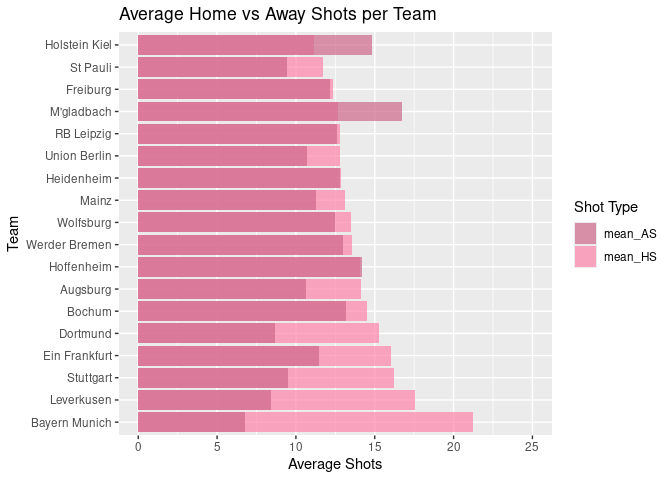
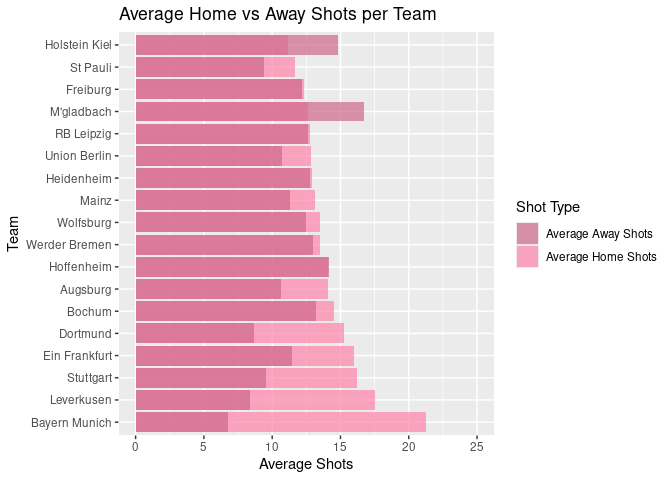
Add comment out

diff --git a/proposal/proposal.md b/proposal/proposal.md
@@ -139,6 +139,7 @@ team_order <- season |>
   summarise(mean_HS = mean(HS, na.rm = TRUE)) |>
   arrange(desc(mean_HS)) |>
   pull(HomeTeam)
+
 summary_long <- season |>
   group_by(HomeTeam) |>
   summarise(mean_HS = mean(HS, na.rm = TRUE),
@@ -146,11 +147,15 @@ summary_long <- season |>
   pivot_longer(cols = c(mean_HS, mean_AS),
                names_to = "ShotType",
                values_to = "Shots")
+
 ggplot(summary_long, aes(x = factor(HomeTeam, levels = team_order),
                          y = Shots,
                          fill = ShotType)) +
   geom_col(position = "identity", alpha = 0.7) +
-  scale_fill_manual(values = c("mean_HS" = "palevioletred1", "mean_AS" = "palevioletred3")) +
+  scale_fill_manual(
+    values = c("mean_HS" = "palevioletred1", "mean_AS" = "palevioletred3"),
+    labels = c("mean_HS" = "Average Home Shots", "mean_AS" = "Average Away Shots")
+  ) +
   labs(title = "Average Home vs Away Shots per Team",
        x = "Team",
        y = "Average Shots",
@@ -162,7 +167,5 @@ ggplot(summary_long, aes(x = factor(HomeTeam, levels = team_order),
 ![](proposal_files/figure-gfm/bar-average-shots-1.png)<!-- -->
 
 ``` r
-ggsave("our_plot.png")
+# ggsave("our_newplot.png")
 ```
-
-    ## Saving 7 x 5 in image
